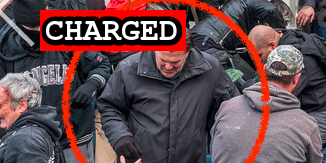
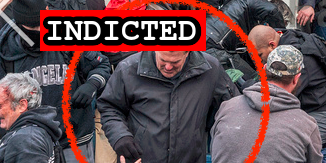
New indictments

Changed region(s): [[0.1227, 0.0613, 0.6442, 0.3374], [0.1534, 0.2761, 0.184, 0.3067]]

diff --git a/docs/_suspects/clayton-mullins.md b/docs/_suspects/clayton-mullins.md
@@ -3,13 +3,13 @@ name: Clayton Mullins
 lastName: Mullins
 aka:
 residence: Kentucky
-status: Charged
+status: Indicted
 date: 2021-02-23
 charged: 2021-02-23
-indicted:
-convicted: 
-sentenced: 
-dismissed: 
+indicted: 2021-08-04
+convicted:
+sentenced:
+dismissed:
 deceased:
 age:
 occupation:
@@ -29,7 +29,11 @@ author: seditiontrack
 layout: suspect
 published: true
 caseNumber: 1:21-cr-35
+videos:
+charges:
 ---
+
 - [News Report](https://www.wpsdlocal6.com/news/local-man-arrested-in-connection-to-capitol-riots/article_121d7218-7647-11eb-b188-03ed79745ed0.html)
 - [FBI Statement (Twitter)](https://twitter.com/FBILouisville/status/1364395746594799617?s=20)
 - [Statement of Facts](https://www.justice.gov/usao-dc/case-multi-defendant/file/1371466/download)
+- [Indictment](https://extremism.gwu.edu/sites/g/files/zaxdzs2191/f/Sabol%20et%20al%20Second%20Superseding%20Indictment.pdf)

diff --git a/docs/_suspects/jonathon-shroyer.md b/docs/_suspects/jonathon-shroyer.md
@@ -1,0 +1,37 @@
+---
+name: Jonathon Shroyer
+lastName: Shroyer
+aka:
+residence: Texas
+status: Charged
+date: 2021-08-19
+charged: 2021-08-19
+indicted:
+convicted:
+sentenced:
+dismissed:
+deceased:
+age:
+occupation:
+affiliations: InfoWars
+jurisdiction: Federal
+image: /images/preview/jonathon-shroyer.jpg
+suspect: jonathon-shroyer.jpg
+booking:
+courtroom:
+courthouse:
+raid:
+perpwalk:
+quote:
+title: Jonathon Shroyer charged on August 19, 2021
+description: Click for latest case details. Suspects innocent until proven guilty.
+author: seditiontrack
+layout: suspect
+published: false
+caseNumber:
+videos:
+charges:
+---
+
+- [News Report]()
+- [Statement of Facts](https://extremism.gwu.edu/sites/g/files/zaxdzs2191/f/Jonathon%20Owen%20Shroyer%20Criminal%20Complaint%20and%20Statement%20of%20Facts.pdf)

diff --git a/docs/_suspects/philip-young.md b/docs/_suspects/philip-young.md
@@ -1,0 +1,37 @@
+---
+name: Philip Young
+lastName: Young
+aka:
+residence: New Jersey
+status: Charged
+date: 2021-07-28
+charged: 2021-07-28
+indicted:
+convicted:
+sentenced:
+dismissed:
+deceased:
+age:
+occupation:
+affiliations:
+jurisdiction: Federal
+image: /images/preview/philip-young.jpg
+suspect: philip-young.jpg
+booking:
+courtroom:
+courthouse:
+raid:
+perpwalk:
+quote:
+title: Philip Young charged on July 28, 2021
+description: Click for latest case details. Suspects innocent until proven guilty.
+author: seditiontrack
+layout: suspect
+published: false
+caseNumber:
+videos:
+charges:
+---
+
+- [News Report]()
+- [Statement of Facts](https://extremism.gwu.edu/sites/g/files/zaxdzs2191/f/Philip%20Young%20Statement%20of%20Facts.pdf)

diff --git a/docs/_suspects/matthew-purse.md b/docs/_suspects/matthew-purse.md
@@ -3,10 +3,10 @@ name: Matthew Purse
 lastName: Purse
 aka:
 residence: California
-status: Charged
+status: Indicted
 date: 2021-06-28
 charged: 2021-06-28
-indicted:
+indicted: 2021-08-06
 convicted:
 sentenced:
 dismissed:
@@ -29,6 +29,10 @@ author: seditiontrack
 layout: suspect
 published: true
 caseNumber: 1:21-mj-475
+videos:
+charges:
 ---
+
 - [News Report](https://abcnews.go.com/Politics/wireStory/california-man-charged-raiding-capitol-posing-press-78775394)
 - [Statement of Facts](https://www.justice.gov/usao-dc/case-multi-defendant/file/1410621/download)
+- [Indictment](https://extremism.gwu.edu/sites/g/files/zaxdzs2191/f/Matthew%20Thomas%20Purse%20Indictment.pdf)
